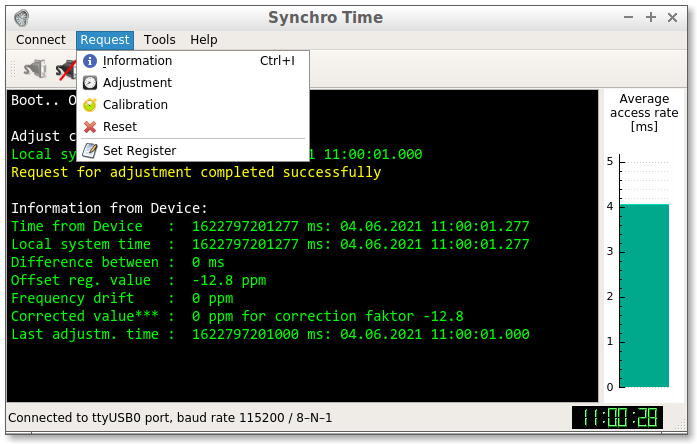
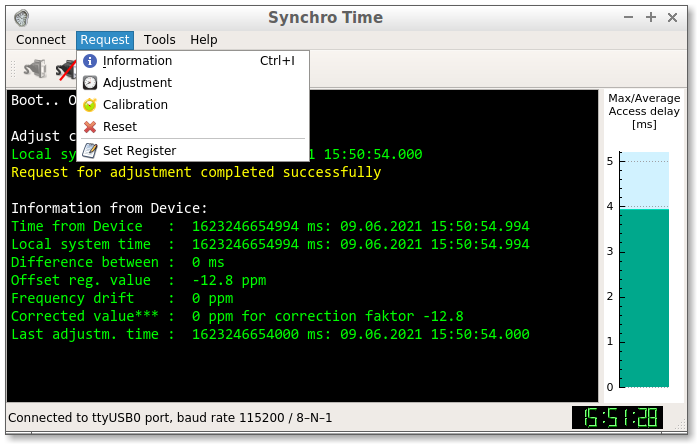
Updates screenshots of the program

diff --git a/README.md b/README.md
@@ -15,13 +15,13 @@ The real-time clock module on the [DS3231](https://create.arduino.cc/projecthub/
   * correct the frequency drift of the RTC DS3231. The algorithm performs correction in the range from -12.8 to +12.7 ppm.
   * The application allows you to evaluate the accuracy and reliability of the RTC oscillator for a particular sample, as well as the chances of successful correction in case of significant time drift;
   * automatically save parameters and calibration data to the energy-independent flash memory of the type AT24C256. In case there is a power failure to the module.
-  * The application allows you to estimate the response time over a serial port using a dynamic moving average method (Simple Moving Average).
+  * The application allows you to estimate the response delay over a serial port using a dynamic moving average method (Simple Moving Average).
 
 * Developed in pure Qt, no third party libraries.
 
 * Cross-platform application implementation (Linux and Windows).
 
-* The client communicates with the Arduino server via the serial interface (UART). The application allows you to easily select a serial port for communication with the server and save the port number in the program settings.
+* The client communicates with the Arduino server via the serial interface (UART). The application allows you to easily select a serial port for communication with the server and save the port name in the program settings.
 
 * Command Help `$ ./synchroTime -h`
 
@@ -142,7 +142,7 @@ All functionality is similar to the CLI application (see figure below). As an ex
 
 * Calibration by Offset Register is stable over the operating temperature range from 0°C to +40°C (see part **Discussion**).
 
-* The application communicates with the Arduino server through any virtual serial interface (UART). The Baud Rate is assumed unchanged and equals 115200 bps.
+* The application communicates with the Arduino server through any virtual serial interface (UART). The recommended UART baud rate is 115200 bps. The recommended parameters for serial port are 8-N-1.
 
 * The Arduino is in turn connected to the Precision RTC DS3231 module via the I²C-interface: A4 (SDA), A5 (SCL) pins (SDA - data line and SCL - clock line).
 
